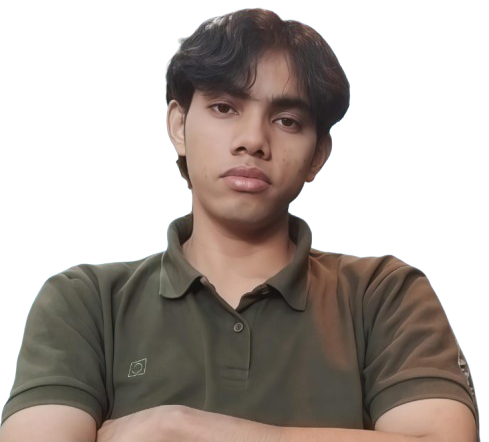
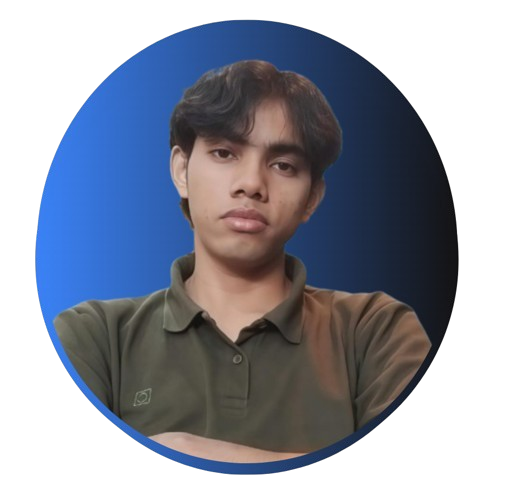
update baru

diff --git a/src/components/Hero.jsx b/src/components/Hero.jsx
@@ -30,11 +30,6 @@ function Hero() {
       </div >
         <div className="relative">
         <img src={DataImage.HeroImage} alt="Hero Image" className="w-[500px] md:ml-auto"/>
-        <span className="absolute -bottom-3 -z-10 left-1/2 -translate-x-1/2">
-          <svg height="400" width="400" viewBox="0 0 200 200" xmlns="http://www.w3.org/2000/svg">
-            <path fill="#3B82F6" d="M41.8,-43.5C53.7,-29.8,62.7,-14.9,65.7,3C68.7,20.9,65.8,41.9,53.8,57.7C41.9,73.6,20.9,84.3,-0.6,84.9C-22.1,85.5,-44.2,75.9,-56.1,60C-68.1,44.2,-70,22.1,-69.1,0.9C-68.3,-20.4,-64.7,-40.7,-52.7,-54.4C-40.7,-68.2,-20.4,-75.2,-2.7,-72.5C14.9,-69.7,29.8,-57.2,41.8,-43.5Z" transform="translate(100 100) scale(1.1)" />
-          </svg>
-        </span>
         </div>
       </div>
     );

diff --git a/src/components/Projects.jsx b/src/components/Projects.jsx
@@ -31,7 +31,7 @@ const projects = [
 function Projects() {
   return (
     <section className="py-16 container mx-auto px-4" id="projects">
-      <h2 className="text-2xl mt-3 md:text-3xl font-bold mb-6 text-blue-400 text-center">Projects</h2>
+      <h2 className="text-2xl md:text-3xl font-bold mb-6 text-blue-400 text-center">Projects</h2>
       <div className="grid md:grid-cols-2 items-start gap-8 mt-10 mb-10">
         <div>
           <div className="flex items-center gap-3 mb-6 bg-zinc-800 w-fit p-4 rounded-2xl transition-all duration-300 cursor-pointer group border border-transparent hover:border-blue-400 hover:bg-blue-400/20">

diff --git a/src/components/About.jsx b/src/components/About.jsx
@@ -1,6 +1,6 @@
 function About() {
   return (
-    <section className="about container mx-auto px-4 mt-32 py-10  md:px-0" id="about">
+    <section className="about container mx-auto px-4 mt-20 py-10  md:px-0" id="about">
         <h2 className="text-2xl md:text-3xl font-bold mb-6 text-blue-400 text-center">About Me</h2>
       <div className="max-w-6xl mt-10 mx-auto bg-zinc-900 rounded-2xl p-8 border border-zinc-800 shadow-lg">
         <p className="mb-4 opacity-90">
